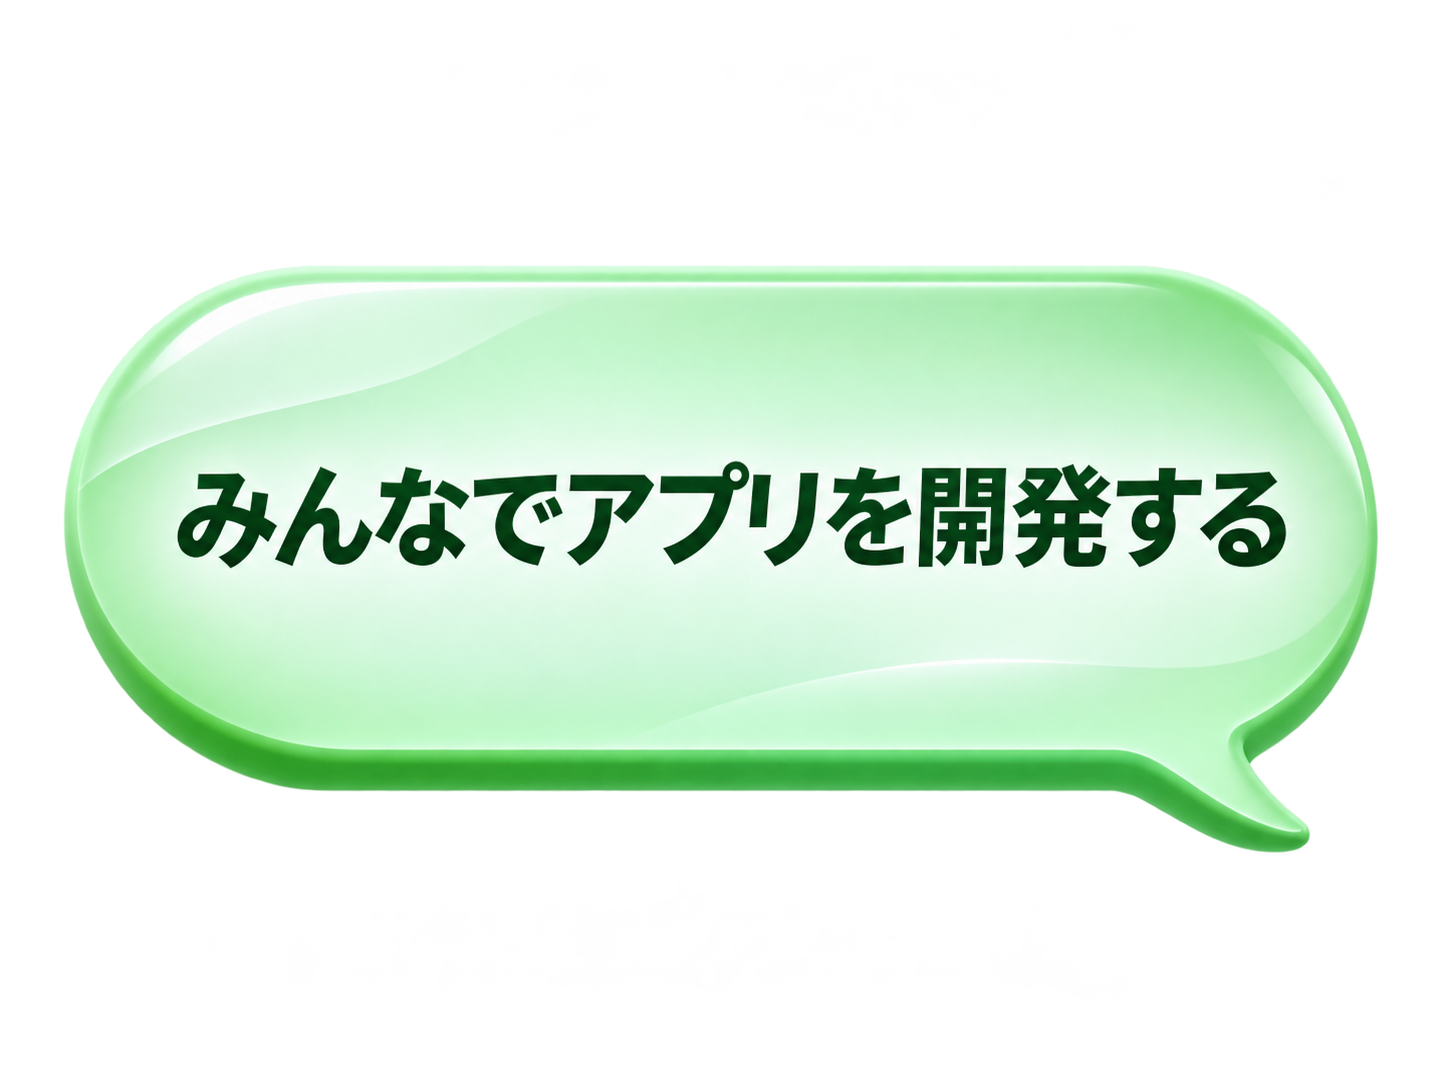
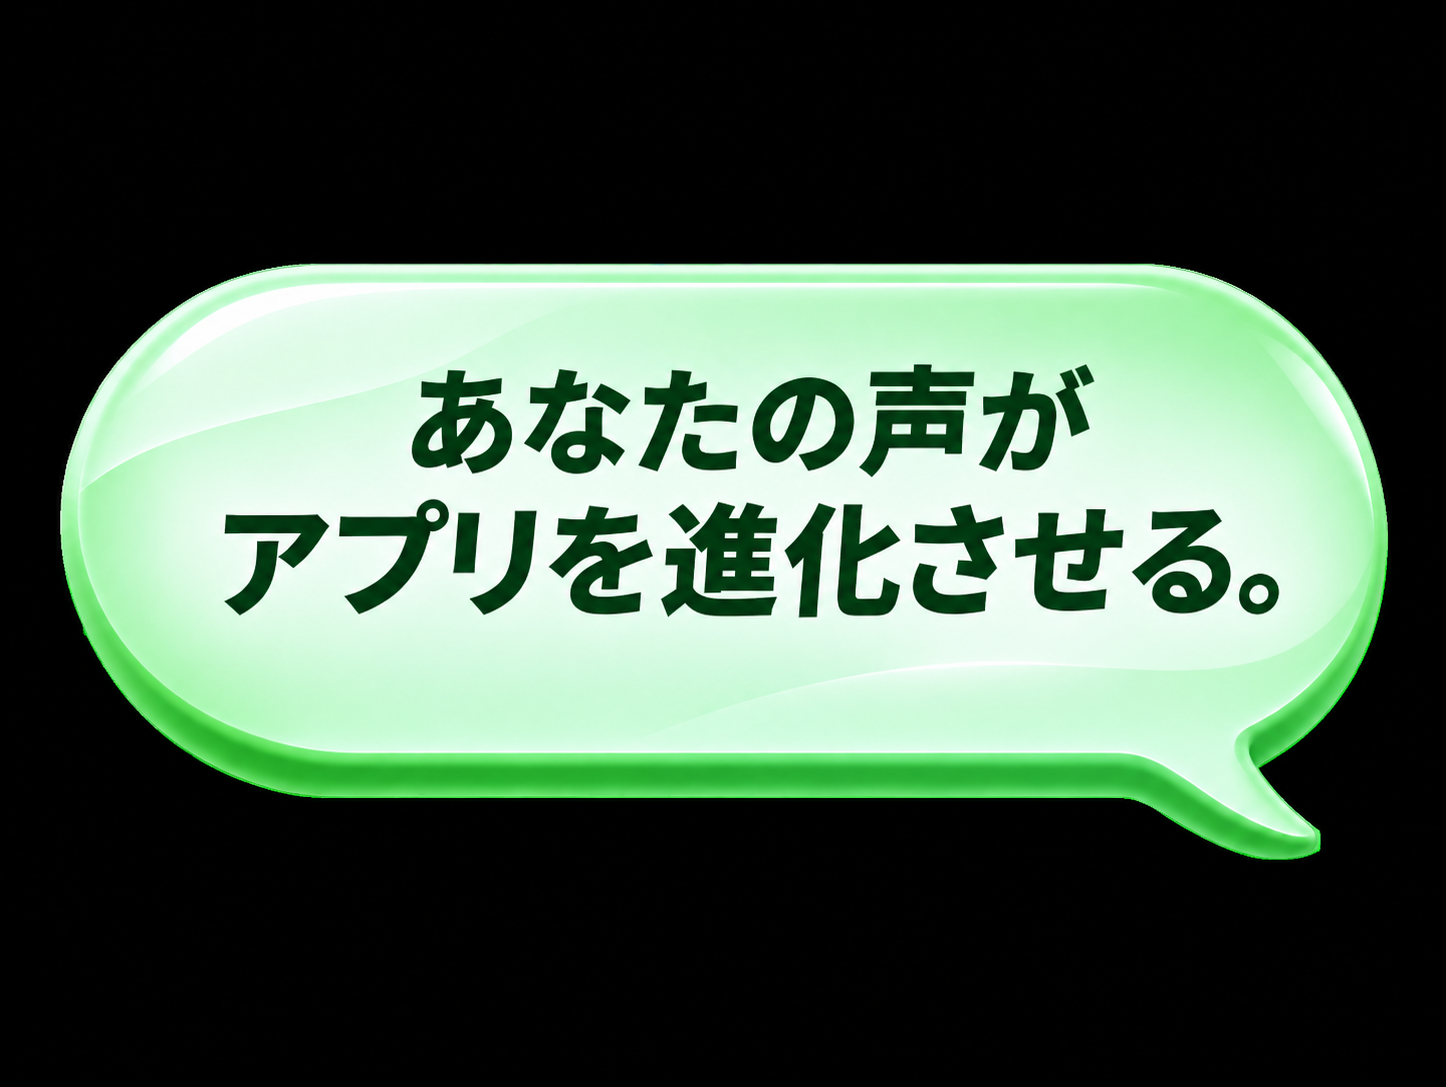
feat(app): ご意見箱の吹き出しを「あなたの声が アプリを進化させる。」に差し替える

diff --git a/app/src/components/feedback-button.tsx b/app/src/components/feedback-button.tsx
@@ -52,14 +52,15 @@ export function useFeedbackButtonSize() {
 }
 
 /*
-  吹き出し「みんなでアプリを開発する」（ご提供の画像。2026-11-02）。
-  透けた余白と外側の薄いにじみを落として 640 × 290 にした（原本は feedback-bubble-original.png）。
-  しっぽは右下で、先は幅の 91.7%・高さの 98.8% の位置にある。
+  吹き出し「あなたの声が アプリを進化させる。」（ご提供の画像。2026-11-02 に
+  「みんなでアプリを開発する」から差し替え）。原本は背景が黒く塗られていたため、
+  外側から黒い背景をたどって透かし（中の濃い緑の文字は残る）、640 × 290 にした
+  （原本は feedback-bubble-original.png）。しっぽは右下で、先は幅の 91.4%・高さの 99.2%。
 */
 const BUBBLE = require('@/assets/art/feedback-bubble.webp');
 const BUBBLE_ASPECT = 290 / 640;
-const TAIL_X = 0.917;
-const TAIL_Y = 0.988;
+const TAIL_X = 0.914;
+const TAIL_Y = 0.992;
 
 /**
  * しっぽの先を当てる場所（絵の中の位置。幅・高さに対する割合）。
